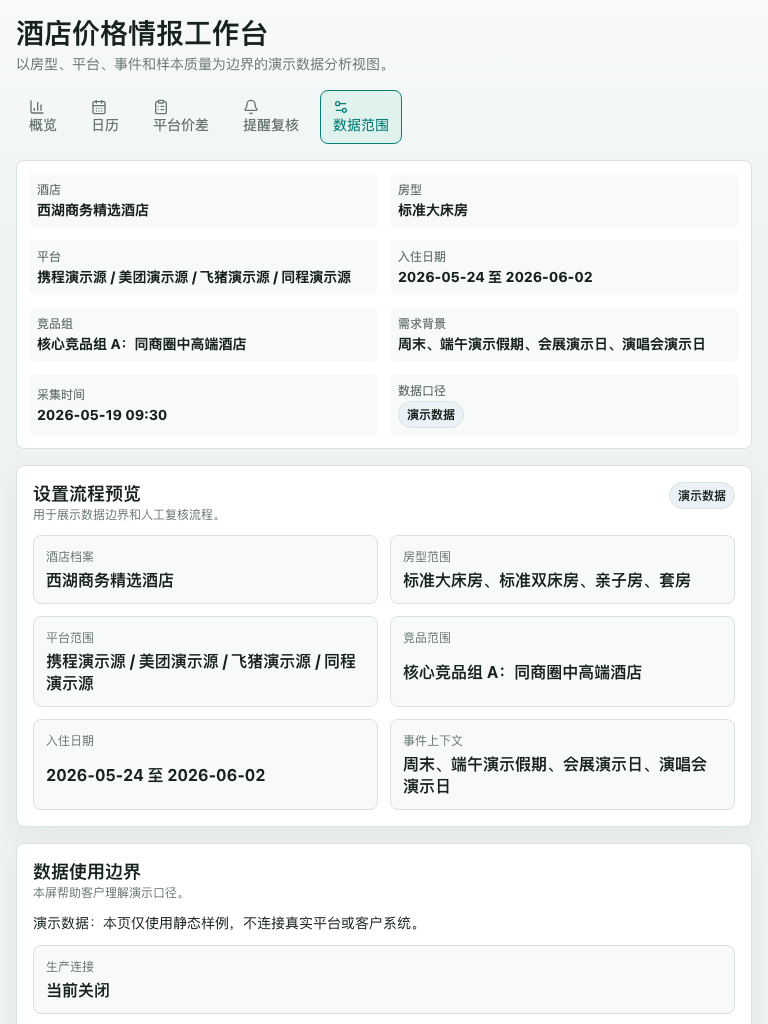
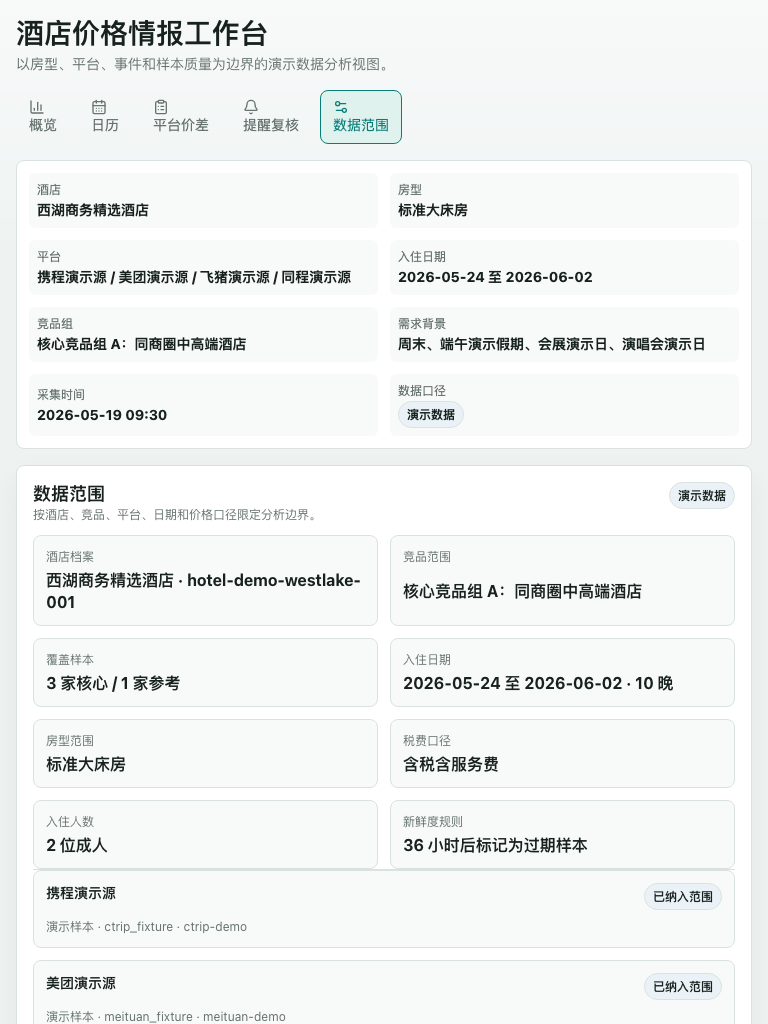
feat: polish data scope capture preview

diff --git a/app/src/screens/SetupDataScopeScreen.tsx b/app/src/screens/SetupDataScopeScreen.tsx
@@ -93,9 +93,6 @@ export function SetupDataScopeScreen({ dataset }: SetupDataScopeScreenProps) {
                 </p>
                 <div className="cluster">
                   {option.humanReviewRequired ? <span className="status-chip status-chip--review">人工复核</span> : null}
-                  <span className="secondary-button" aria-disabled="true">
-                    进入人工复核预览
-                  </span>
                 </div>
               </div>
             ))}

diff --git a/app/tests/domain/complianceScan.test.ts b/app/tests/domain/complianceScan.test.ts
@@ -13,6 +13,7 @@ describe('domain core compliance boundary', () => {
   it('does not include live collection, credential, browser, storage, or automatic pricing code', () => {
     const scannedFiles = [
       ...filesUnder('src/domain/pricing'),
+      'src/data/dataScope.ts',
       'src/data/domainSeed.ts',
       'src/data/domainDrivenDataset.ts',
       'src/data/demoDataset.ts'
